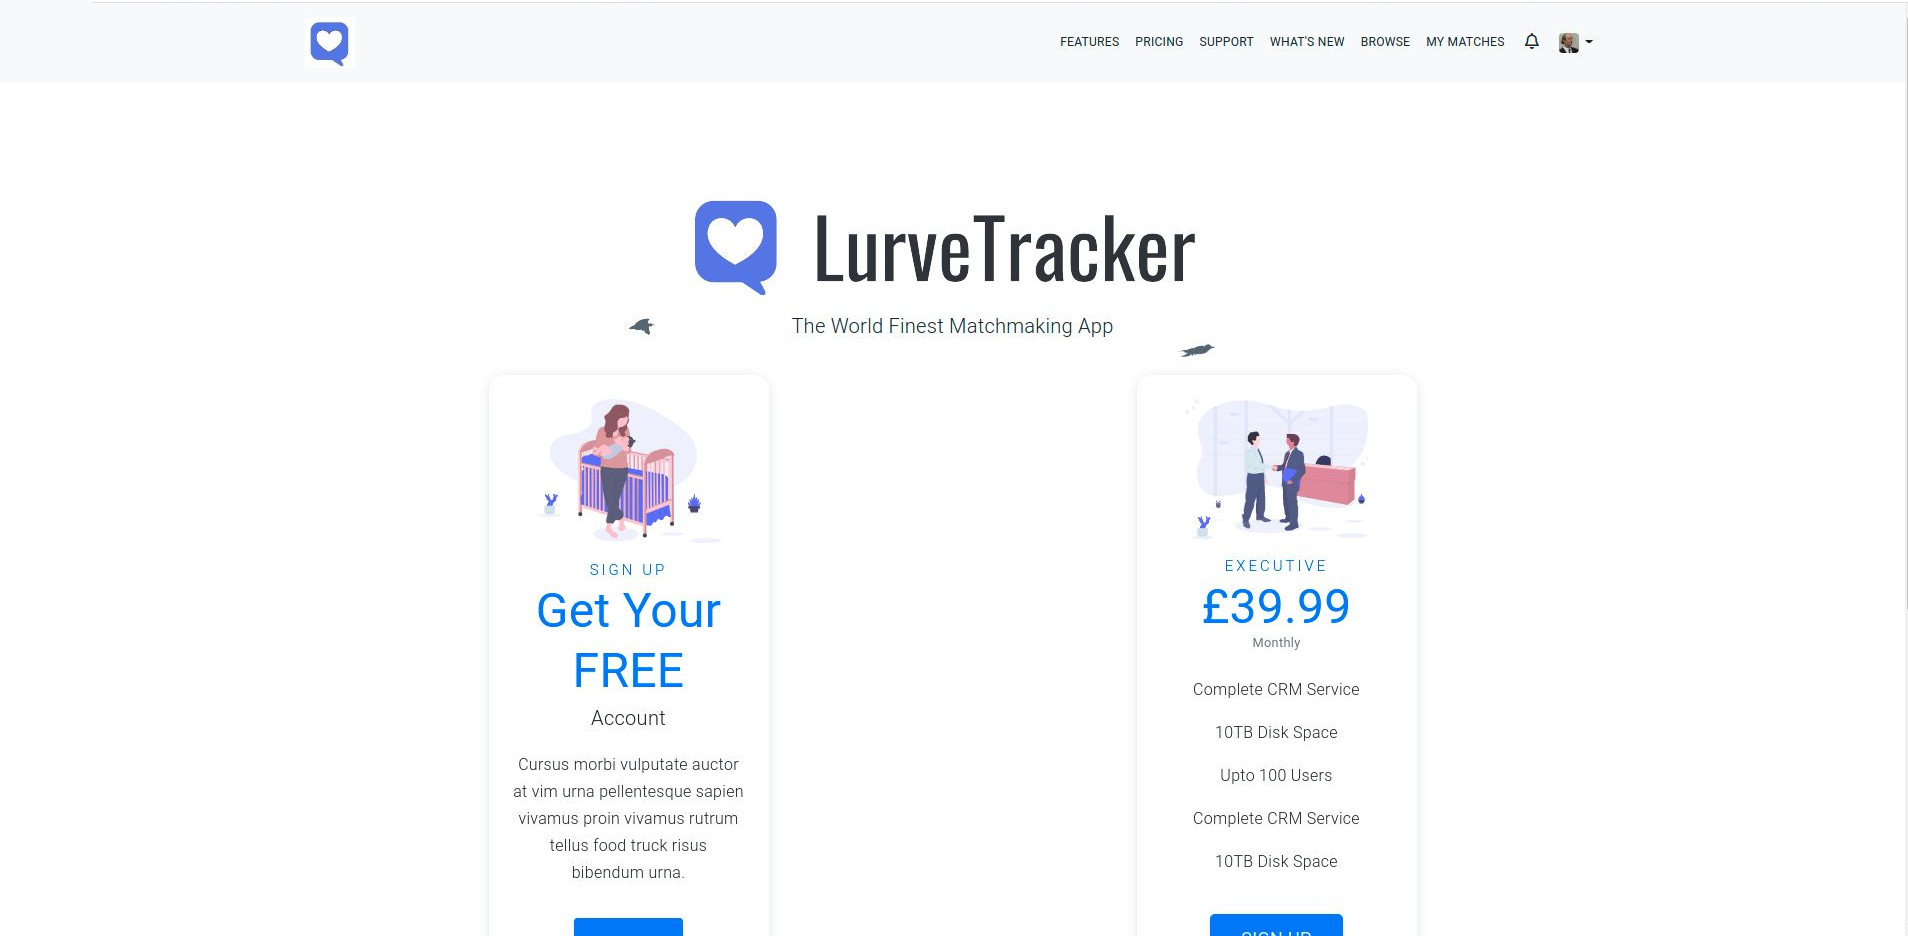
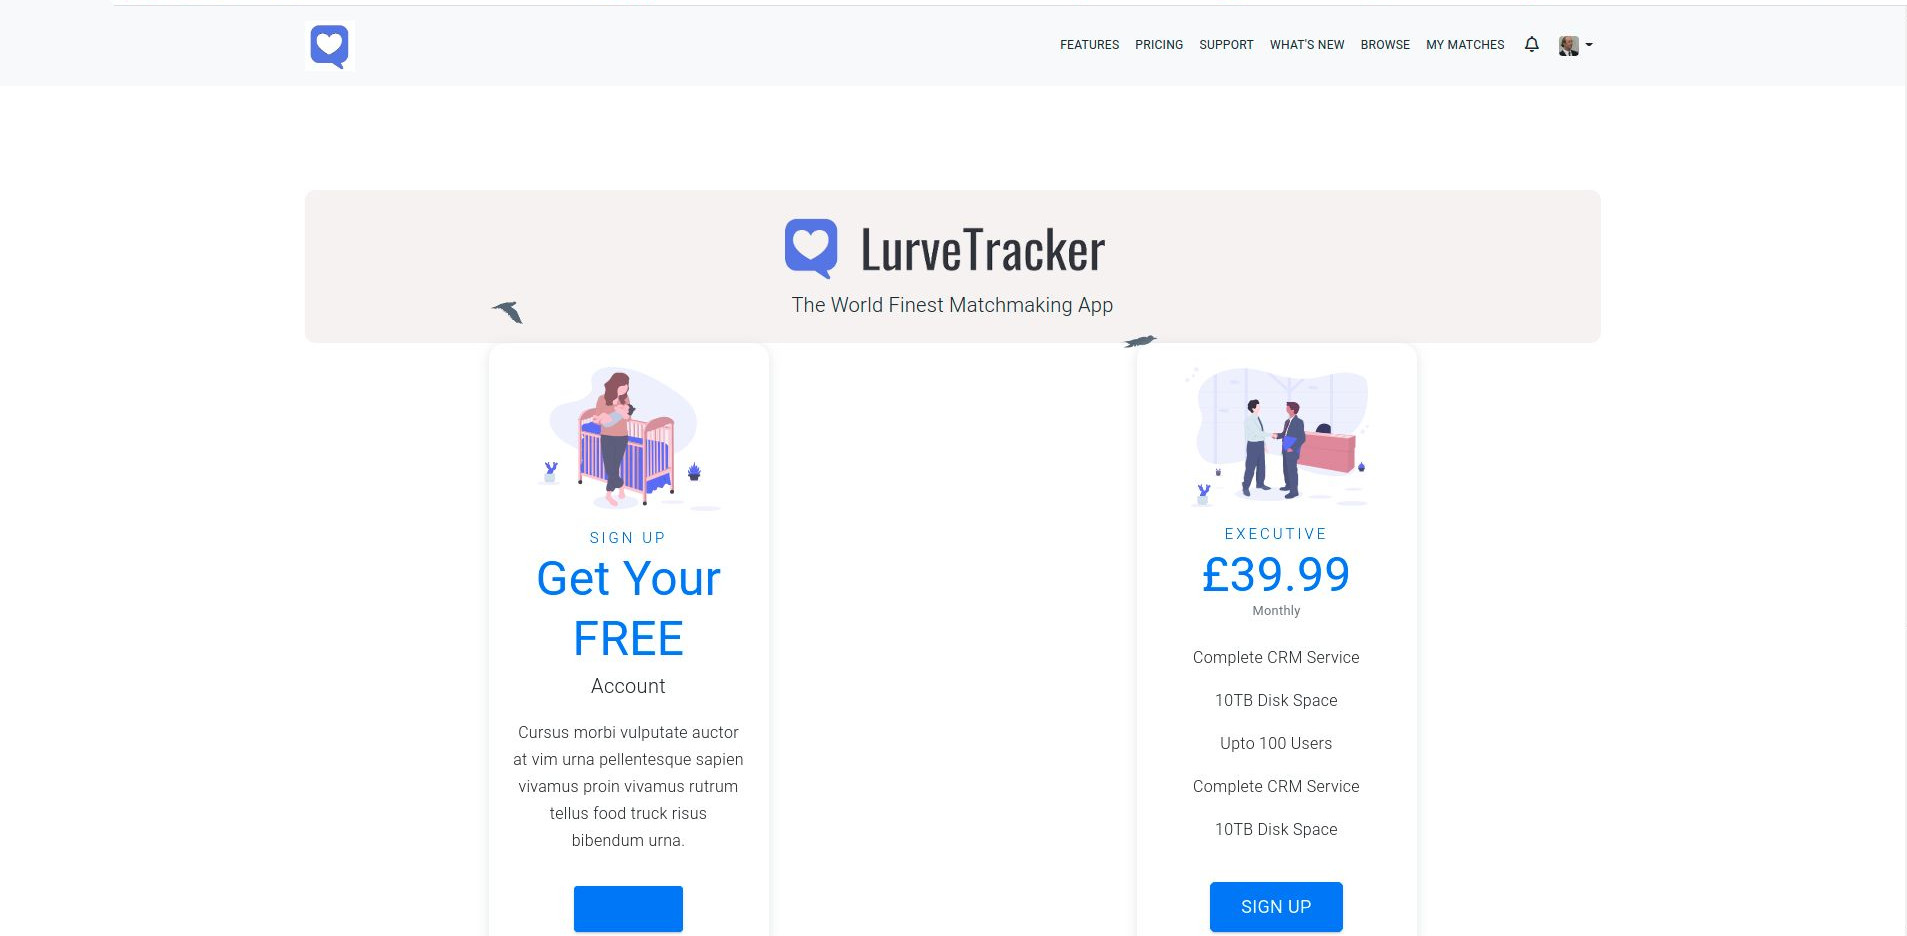
Jumbotron

diff --git a/app/assets/stylesheets/application.scss b/app/assets/stylesheets/application.scss
@@ -20,3 +20,10 @@
 body > .alert {
   margin-bottom: 0;
 }
+
+.jumbotron {
+  background:#f5f2f2;
+  padding-top: 20px;
+  padding-bottom: 5px;
+  border-radius: 10px;
+}
